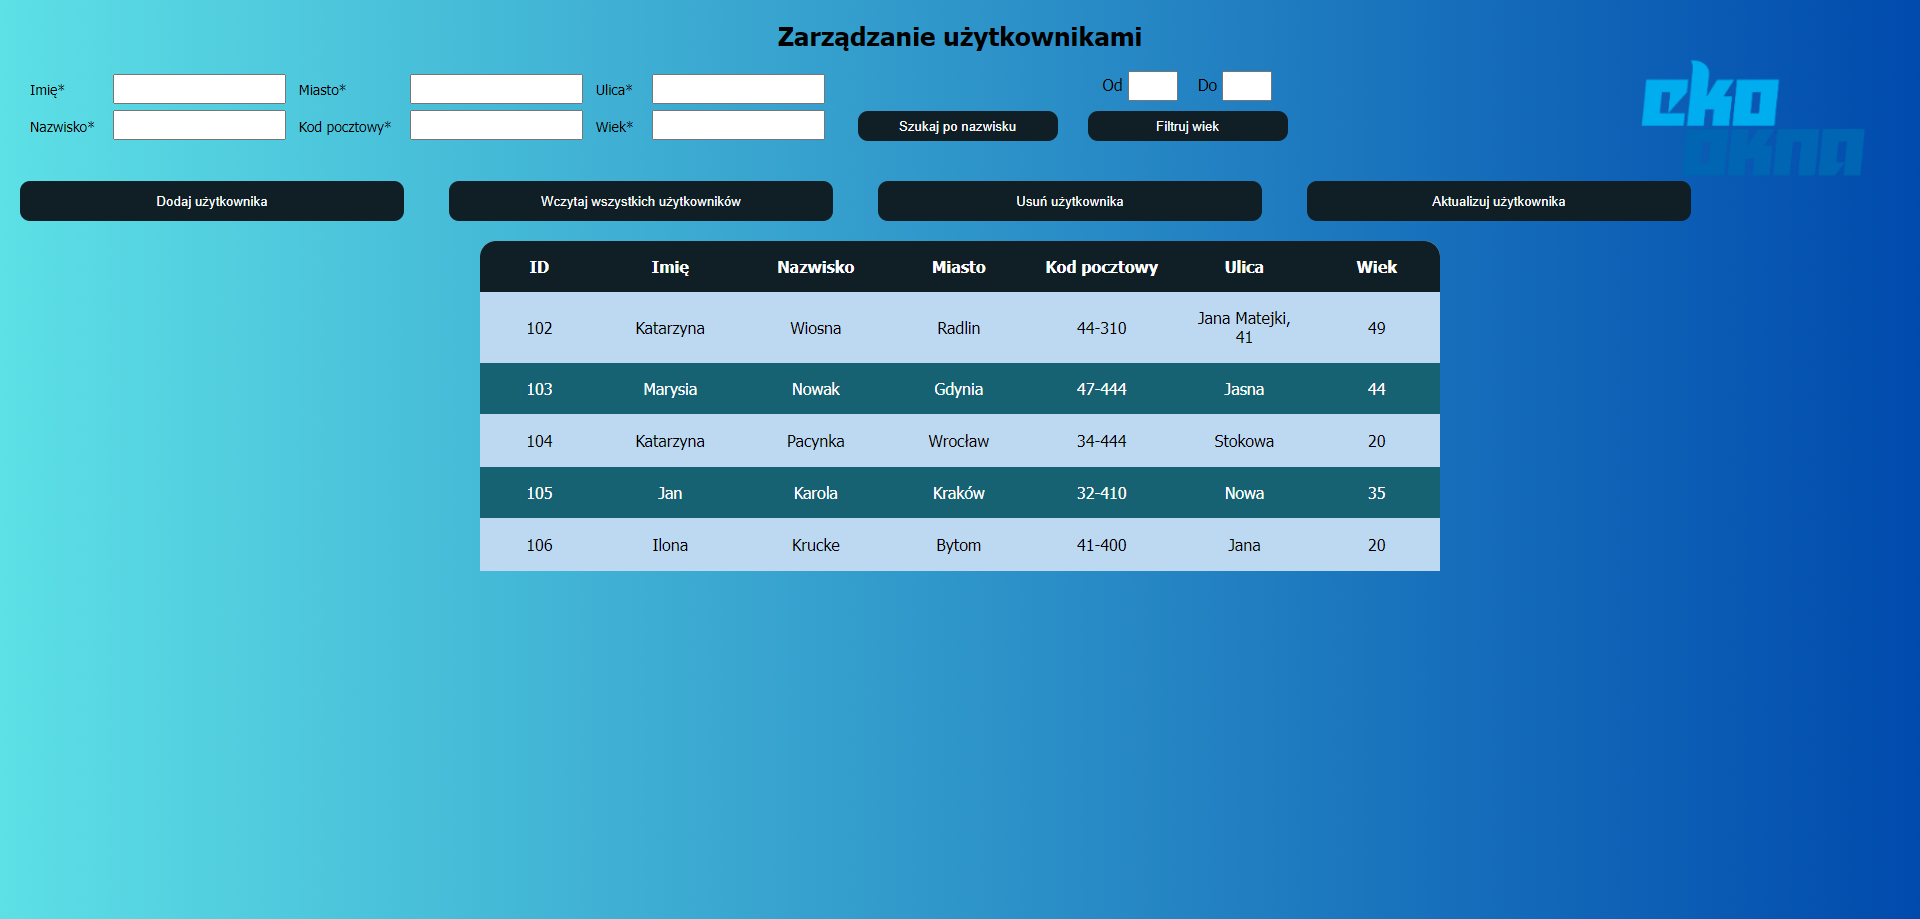
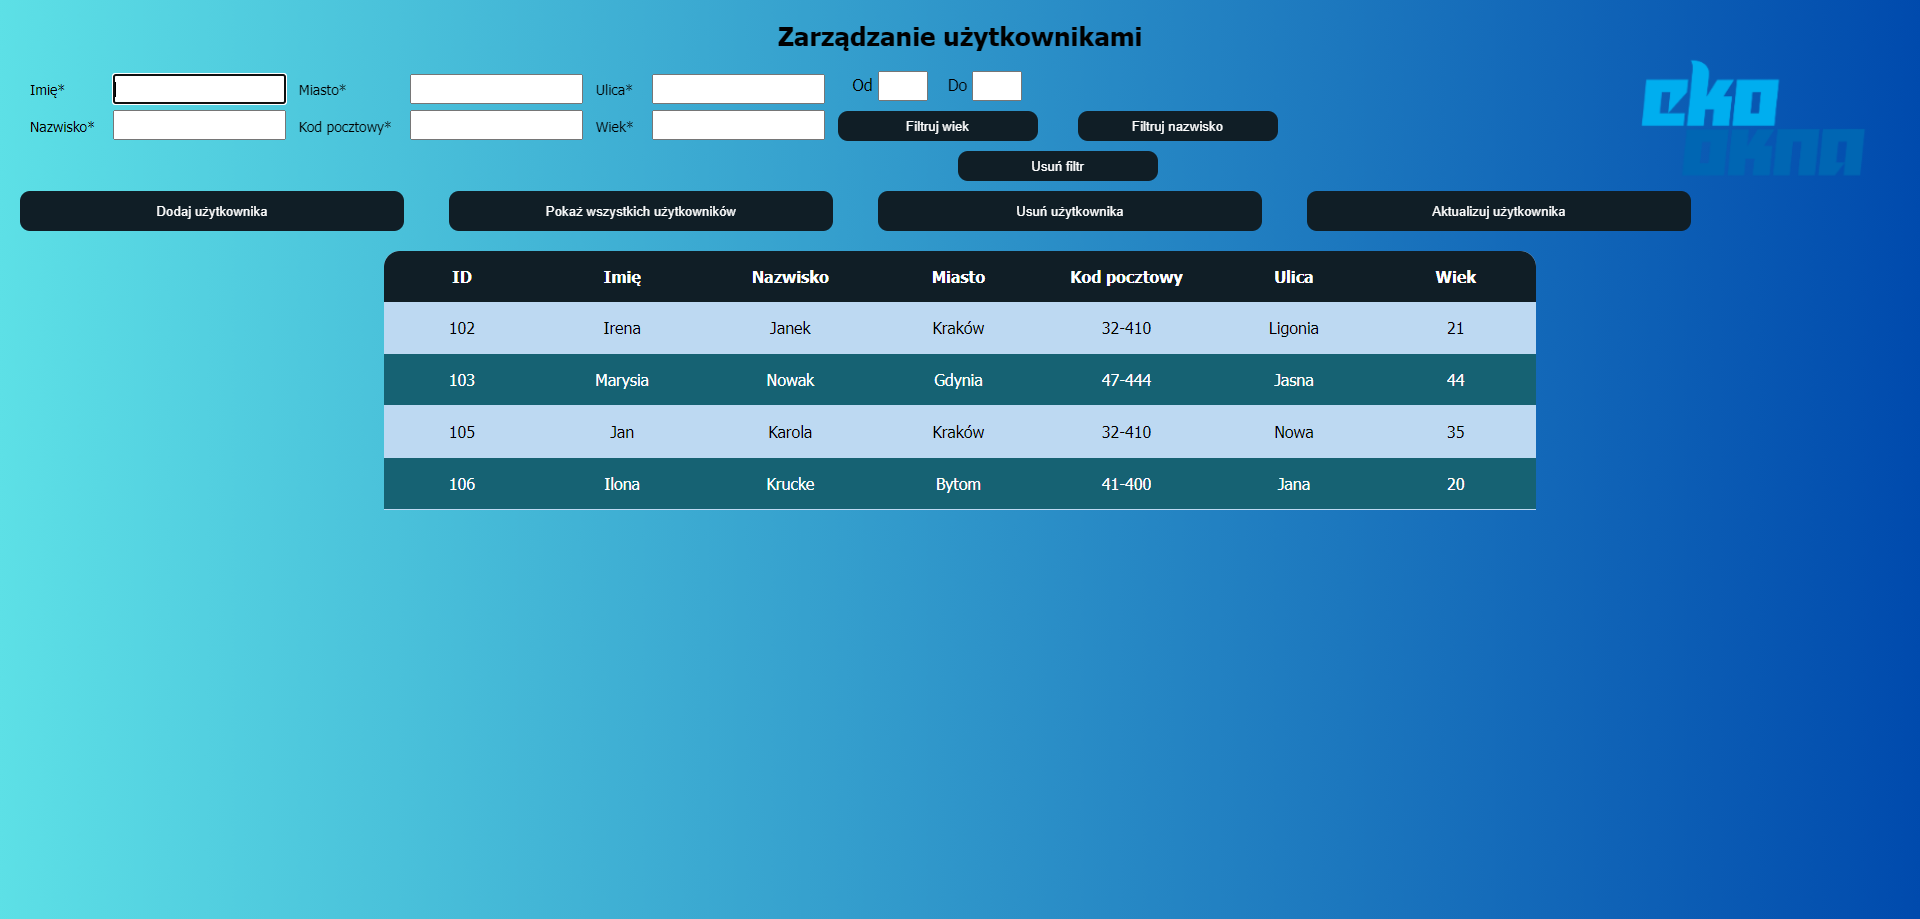
added button removeFilter, update README, remove php class

Changed region(s): [[0.0, 0.0305, 0.875, 0.6398], [0.0625, 0.0609, 0.1875, 0.1523], [0.3125, 0.1219, 0.3438, 0.1523]]

diff --git a/index.html b/index.html
@@ -15,8 +15,8 @@
                     <label for="last_name" class="form-label">Nazwisko*</label>
                 </p>
                 <p>
-                    <input class="form-control" type="text" name="first_name" required id="first_name"/><br/>
-                    <input class="form-control" type="text" name="last_name"  required id="last_name"/>
+                    <input class="form-control" type="text" name="first_name" id="first_name"/><br/>
+                    <input class="form-control" type="text" name="last_name" id="last_name"/>
                 </p>
             </div>
             <div class="form-column">
@@ -25,8 +25,8 @@
                     <label for="postal_code" class="form-label">Kod pocztowy*</label>
                 </p>
                 <p>
-                    <input class="form-control" type="text" name="city"  required id="city"/><br />
-                    <input class="form-control" type="text" name="postal_code"  required id="postal_code"/>
+                    <input class="form-control" type="text" name="city" id="city"/><br />
+                    <input class="form-control" type="text" name="postal_code" id="postal_code"/>
                 </p>
             </div>
             <div class="form-column">
@@ -35,23 +35,24 @@
                     <label for="age" class="form-label">Wiek*</label><br/>
                 </p>
                 <p>
-                    <input class="form-control" type="text" name="street"  required id="street"/><br/>
-                    <input class="form-control" type="text" name="age"  required id="age"/><br/>
+                    <input class="form-control" type="text" name="street" id="street"/><br/>
+                    <input class="form-control" type="text" name="age" id="age"/><br/>
                 </p>
             </div>
-            <div>
-                <p><button id="btnSearchUser" class="buttonSearch">Szukaj po nazwisku</button></p>
+            <div class="filter">
+                <button id="btnSearchUser" class="buttonSearch">Filtruj nazwisko</button>
                 <p class="searchAgePanel">
                     <label for="ageMin" class="label-age">Od</label>
                     <input class="form-age"  name="ageMin" id="ageMin"/>
                     <label for="ageMax" class="label-age">Do</label>
                     <input class="form-age" name="ageMax" id="ageMax"/><br/>
-                    <button id="btnFilterAge" class="buttonFilterAge">Filtruj wiek</button>
+                    <button id="btnFilterAge" class="buttonFilterAge">Filtruj wiek</button><br/>
                 </p>
+                <button id="btnRemoveFilterAge" class="btnRemoveFilterAge">Usuń filtr</button>
             </div>
             <div class="btnClass">
             <button id="btnAddUser">Dodaj użytkownika</button>
-            <button id="btnGetAllUsers">Wczytaj wszystkich użytkowników</button>
+            <button id="btnGetAllUsers">Pokaż wszystkich użytkowników</button>
             <button id="btnDeleteUser">Usuń użytkownika</button>
             <button id="btnUpdateUser">Aktualizuj użytkownika</button>
             </div>

diff --git a/style.css b/style.css
@@ -18,7 +18,7 @@ p {
 
 .centered-div {
     margin: 0 auto;
-    width: 50%;
+    width: 60%;
     text-align: center;
     clear: both;
 }
@@ -56,12 +56,6 @@ button {
     border-radius: 10px;
     color: #fff ;
     margin: 20px 20px;
-}
-
-.buttonSearch {
-    margin-top: 40px;
-    height: 30px;
-    width: 200px;
 }
 
 table {
@@ -113,13 +107,35 @@ tbody tr.mark {
     margin-left: 15px;
 }
 
+.buttonSearch {
+    margin-top: 40px;
+    margin-bottom: 0;
+    height: 30px;
+    width: 200px;
+}
+
 .buttonFilterAge {
     margin-top: 10px;
-    margin-left: 0px;
+    margin-bottom: 0;
+    margin-left: 0;
+    height: 30px;
+    width: 200px;
+}
+
+.btnRemoveFilterAge {
+    margin-top: 10px;
+    margin-bottom: 0;
+    margin-left: 130px;
     height: 30px;
     width: 200px;
 }
 
 .btnClass {
     float: left;
+}
+
+.filter {
+    float: left;
+    width: 500px;
+    height: 100px;
 }

diff --git a/usersAction.js b/usersAction.js
@@ -6,6 +6,7 @@ const btnGetAllUsers = document.getElementById("btnGetAllUsers");
 const btnDeleteUser = document.getElementById("btnDeleteUser");
 const btnUpdateUser = document.getElementById("btnUpdateUser");
 const btnFilterAge = document.getElementById("btnFilterAge");
+const btnRemoveFilterAge = document.getElementById("btnRemoveFilterAge");
 const form = document.getElementById("addUserForm");
 form.addEventListener('submit', (e) => e.preventDefault());
 
@@ -172,3 +173,4 @@ btnGetAllUsers.addEventListener("click", getAllUsers);
 btnDeleteUser.addEventListener("click", deleteUser);
 btnUpdateUser.addEventListener("click", updateUser);
 btnFilterAge.addEventListener("click", filterAgeUser);
+btnRemoveFilterAge.addEventListener("click", getAllUsers);

diff --git a/README.md b/README.md
@@ -17,3 +17,6 @@ You can manage useres from https://fronttest.ekookna.pl/
 - Update user
 - View all users
 - You can also search for a user by last name and filter all users by age
+## For the future
+To expand the project, can add a user search by each of its values, not just by last name.
+Same with filters -> can add a filter to each value.
